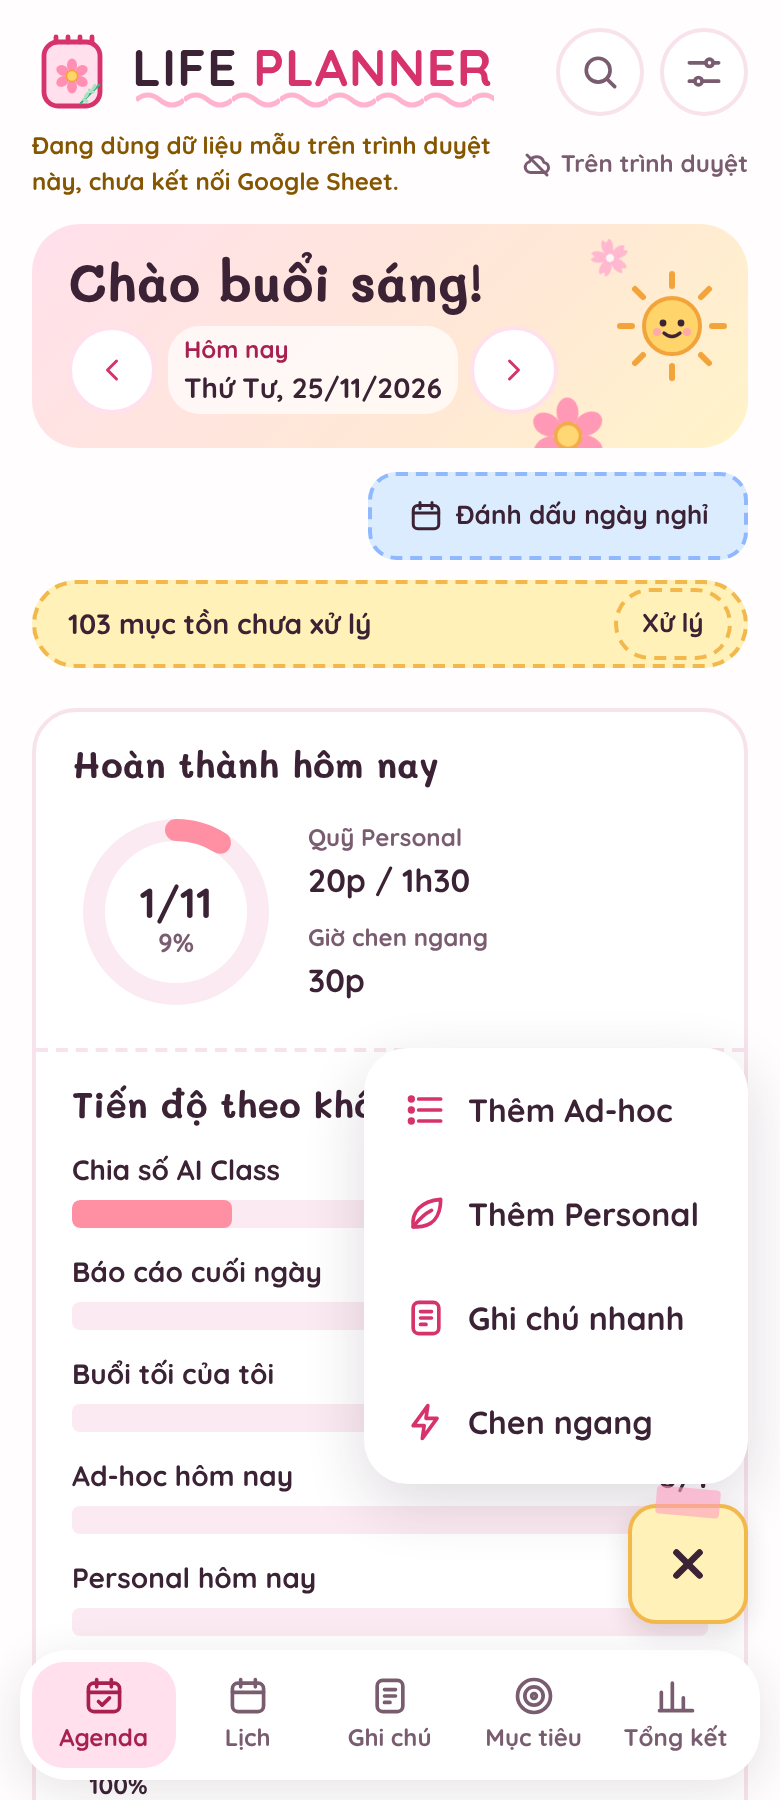
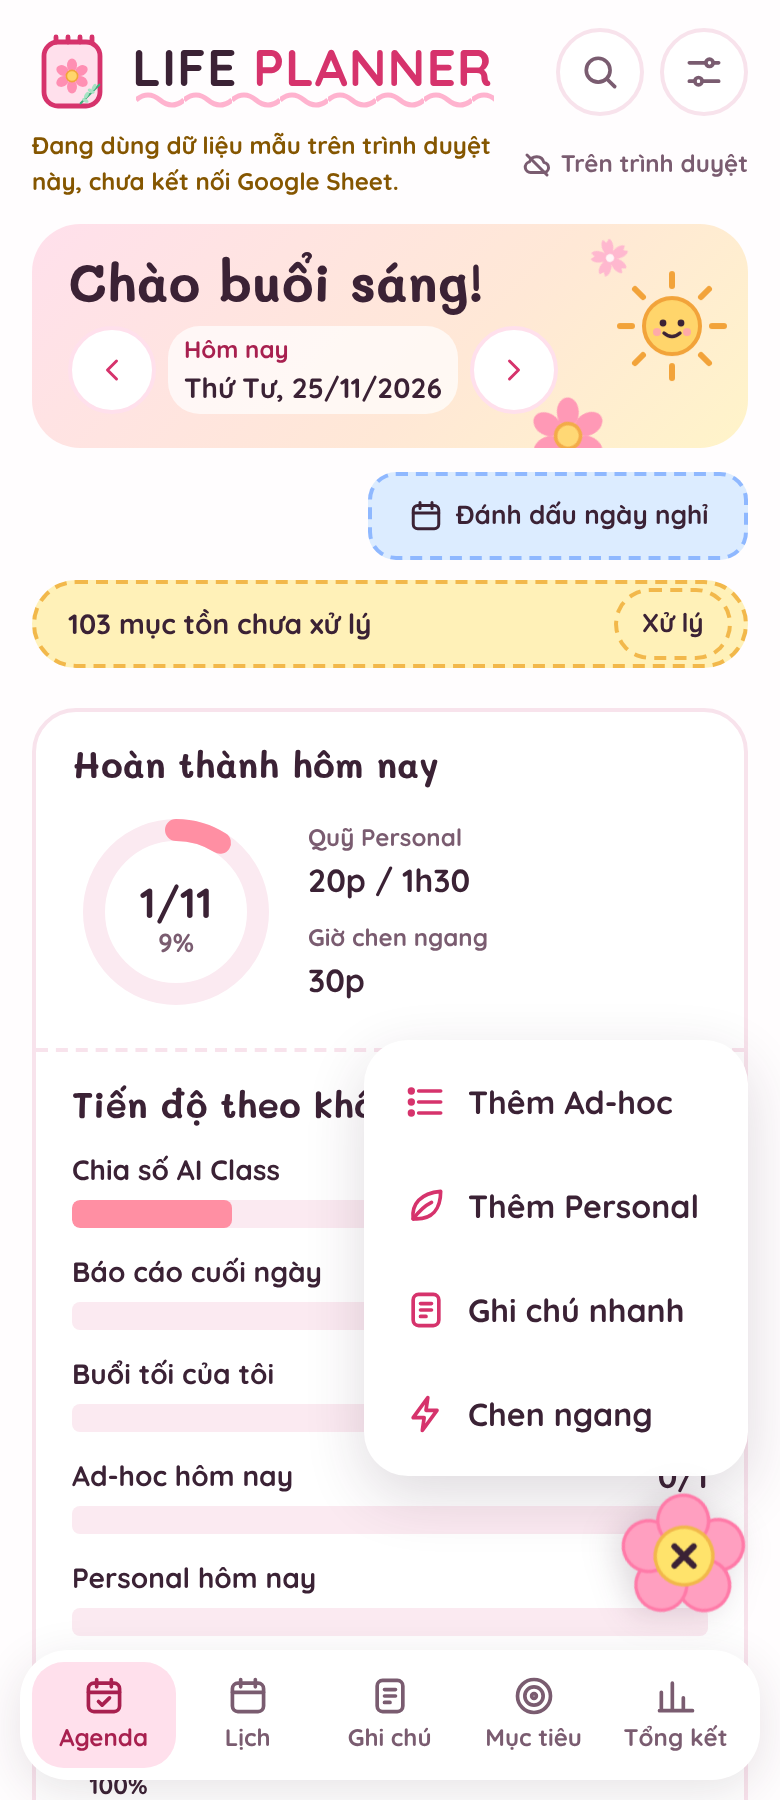
Bỏ kiểu giấy note, nút + trở lại bông hoa
Claude-Session: https://claude.ai/code/session_0149sgxtJqjnDkquQg9Zcj1E

diff --git a/src/v2/css/so-tay.css b/src/v2/css/so-tay.css
@@ -72,14 +72,11 @@ main h1,main h2,.card h2,.page-head h1,.lich-title{font-family:var(--hand);font-
 .pill-undone{border-color:var(--dash)}
 .ag-pill-due{border:1.5px dashed var(--accent)}
 
-/* Nút "+": tờ giấy note màu bơ, nghiêng nhẹ, có mẩu băng dính hồng. Mở menu thì giấy thẳng lại. */
-.fab-main,.fab-main:active{position:relative;width:60px;height:60px;border-radius:14px;background:var(--butter);border:2px solid var(--pr-bar);color:var(--ink);
-  transform:rotate(-6deg);box-shadow:0 5px 12px color-mix(in srgb,var(--ink) 14%,transparent)}
-.fab-main::before{content:"";position:absolute;top:-10px;left:50%;width:32px;height:14px;margin-left:-16px;border-radius:2px;
-  background:color-mix(in srgb,var(--petal-1) 60%,transparent);transform:rotate(5deg)}
-.fab-main:hover{transform:rotate(-2deg) translateY(-2px) scale(1.05)}
-.fab-main[aria-expanded="true"]{transform:rotate(0)}
-.fab-main .icon{width:28px;height:28px;stroke-width:2.8}
-@media (prefers-reduced-motion:reduce){.fab-main:hover{transform:rotate(-6deg)!important}}
-@media (prefers-color-scheme:dark){:root:not([data-theme="light"]) .fab-main{color:var(--ink)}}
-:root[data-theme="dark"] .fab-main{color:var(--ink)}
+/* Nút "+": bông hoa 5 cánh, nhụy vàng có dấu +. Mở menu thì hoa xoay. */
+.fab-main,.fab-main:active,.fab-main:hover{width:64px;height:64px;padding:0;border:0;background:transparent;box-shadow:none}
+.fab-flower{width:64px;height:64px;display:block;filter:drop-shadow(0 4px 8px color-mix(in srgb,var(--ink) 18%,transparent));transition:transform .4s var(--spring)}
+.fab-main:hover .fab-flower{transform:rotate(18deg) scale(1.06)}
+.fab-main[aria-expanded="true"] .fab-flower{transform:rotate(72deg)}
+.fab-main[aria-expanded="true"] .fab-plus{transform:rotate(-27deg);transform-origin:40px 40px}
+.fab-main:focus-visible{border-radius:99px}
+@media (prefers-reduced-motion:reduce){.fab-flower,.fab-main:hover .fab-flower,.fab-main[aria-expanded="true"] .fab-flower{transition:none;transform:none}}

diff --git a/src/v2/index.html b/src/v2/index.html
@@ -84,7 +84,7 @@
       <button type="button" class="fab-item" role="menuitem" data-kind="dotxuat"><svg class="icon" viewBox="0 0 24 24" aria-hidden="true"><path d="M13 3 5 14h6l-1 7 8-11h-6z"/></svg>Chen ngang</button>
     </div>
     <button type="button" class="fab-main" id="fab" aria-label="Thêm mới" aria-haspopup="true" aria-expanded="false">
-      <svg class="icon fab-plus" viewBox="0 0 24 24" aria-hidden="true"><path d="M12 5v14M5 12h14"/></svg>
+      <svg class="fab-flower" viewBox="0 0 80 80" aria-hidden="true" focusable="false"><g fill="#ff9fc0" stroke="#ff7aa8" stroke-width="2"><circle cx="40" cy="19" r="15"/><circle cx="60" cy="34" r="15"/><circle cx="52" cy="58" r="15"/><circle cx="28" cy="58" r="15"/><circle cx="20" cy="34" r="15"/></g><circle cx="40" cy="40" r="17" fill="#ffe36b" stroke="#f2b84b" stroke-width="2"/><path class="fab-plus" d="M40 32v16M32 40h16" stroke="#3b2235" stroke-width="3.6" stroke-linecap="round"/></svg>
     </button>
   </div>
 
